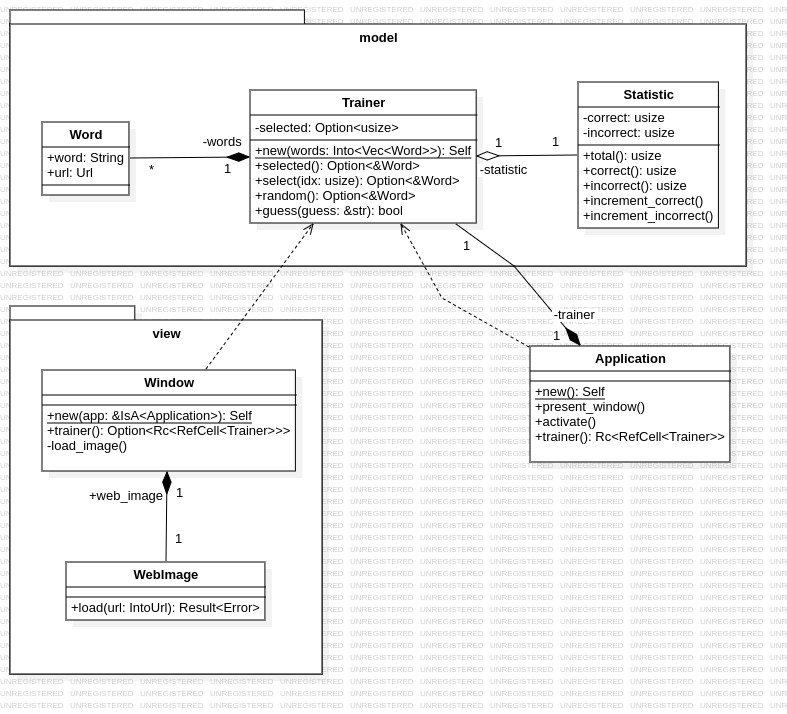
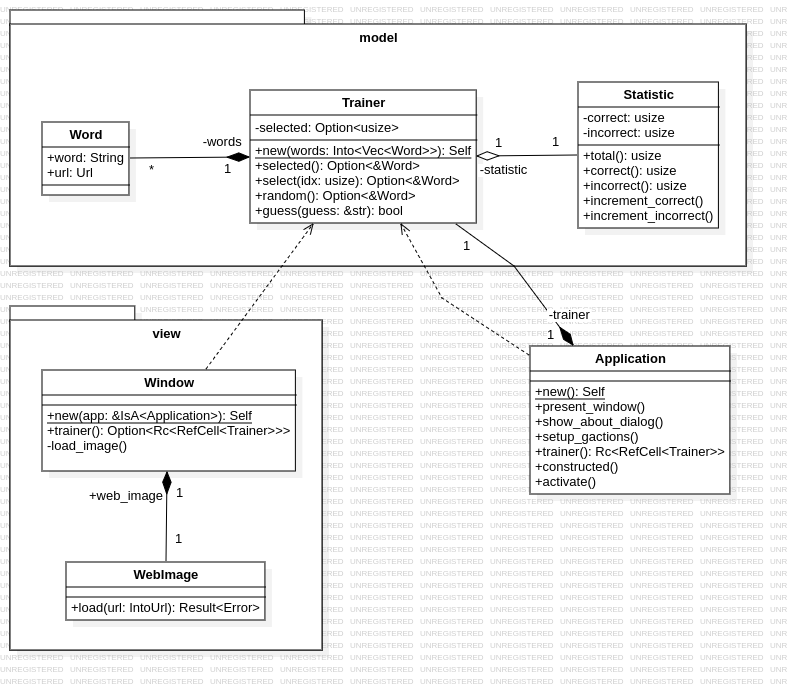
Add about dialog

diff --git a/src/application.rs b/src/application.rs
@@ -53,8 +53,31 @@ impl Application {
         window.present();
     }
 
+    pub fn show_about_dialog(&self) {
+        let window = self.active_window().unwrap();
+        let dialog = adw::AboutWindow::builder()
+            .transient_for(&window)
+            .application_name("Spelling Trainer")
+            .developer_name("Philip Damianik")
+            .version("0.1.0")
+            .developers(vec!["Philip Damianik"])
+            .build();
+
+        dialog.present();
+    }
+
     pub fn trainer(&self) -> Rc<RefCell<Trainer>> {
         self.imp().trainer.clone()
+    }
+
+    fn setup_gactions(&self) {
+        self.add_action_entries([
+            gio::ActionEntry::builder("about")
+                .activate(move |application: &Application, _, _| {
+                    application.show_about_dialog();
+                })
+                .build(),
+        ]);
     }
 }
 
@@ -83,7 +106,11 @@ mod imp {
         }
     }
 
-    impl ObjectImpl for Application {}
+    impl ObjectImpl for Application {
+        fn constructed(&self) {
+            self.obj().setup_gactions();
+        }
+    }
 
     impl ApplicationImpl for Application {
         fn activate(&self) {
